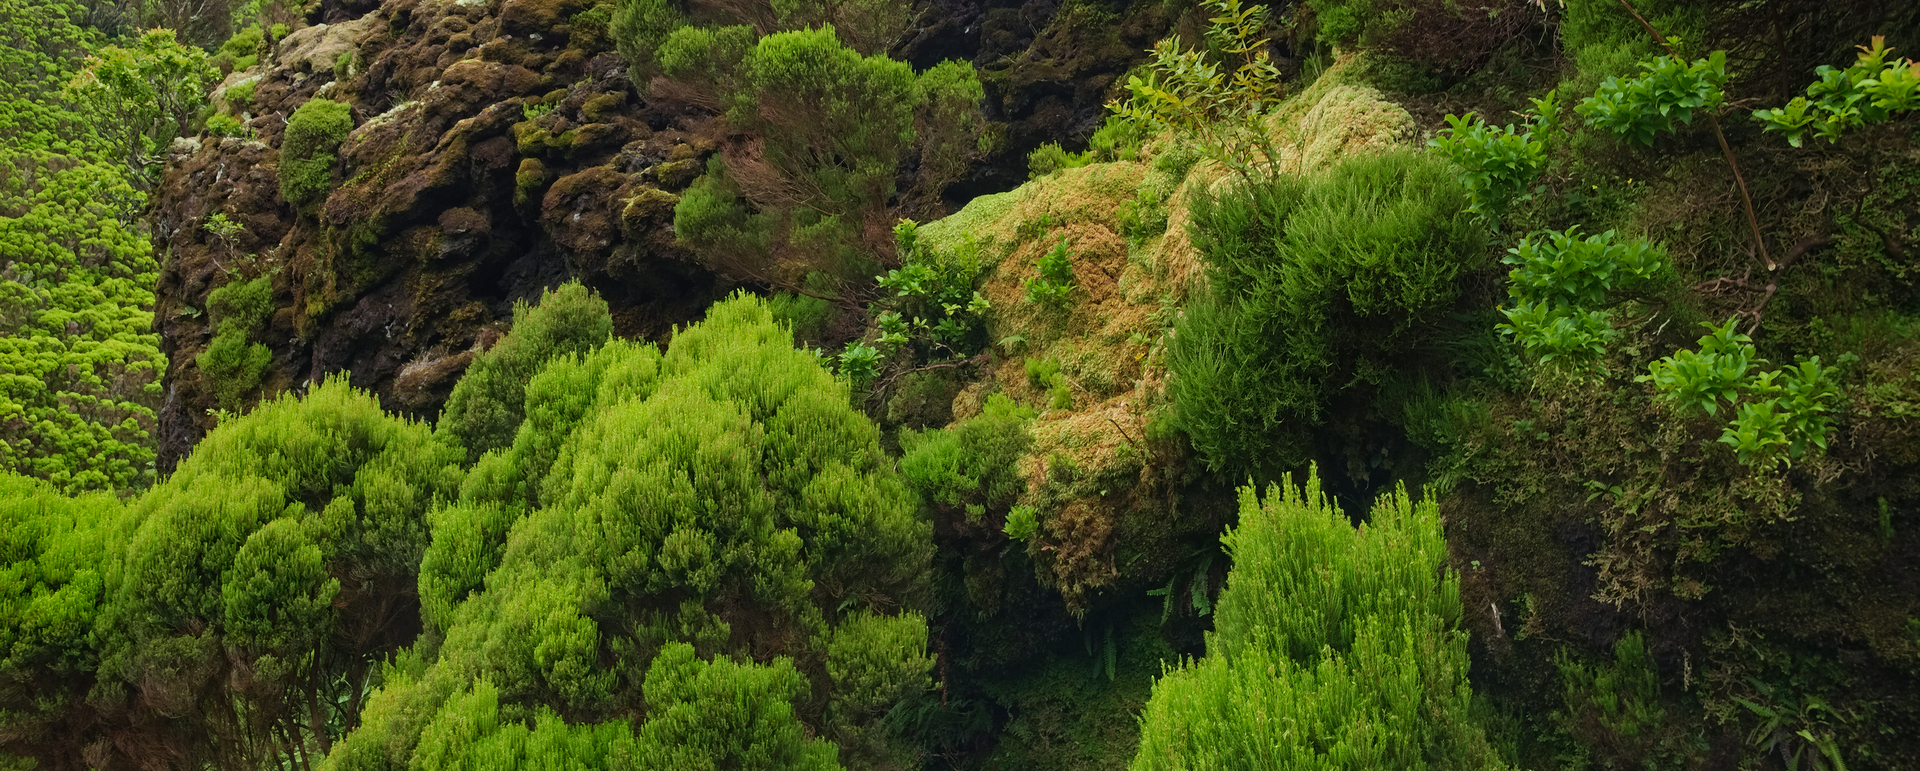
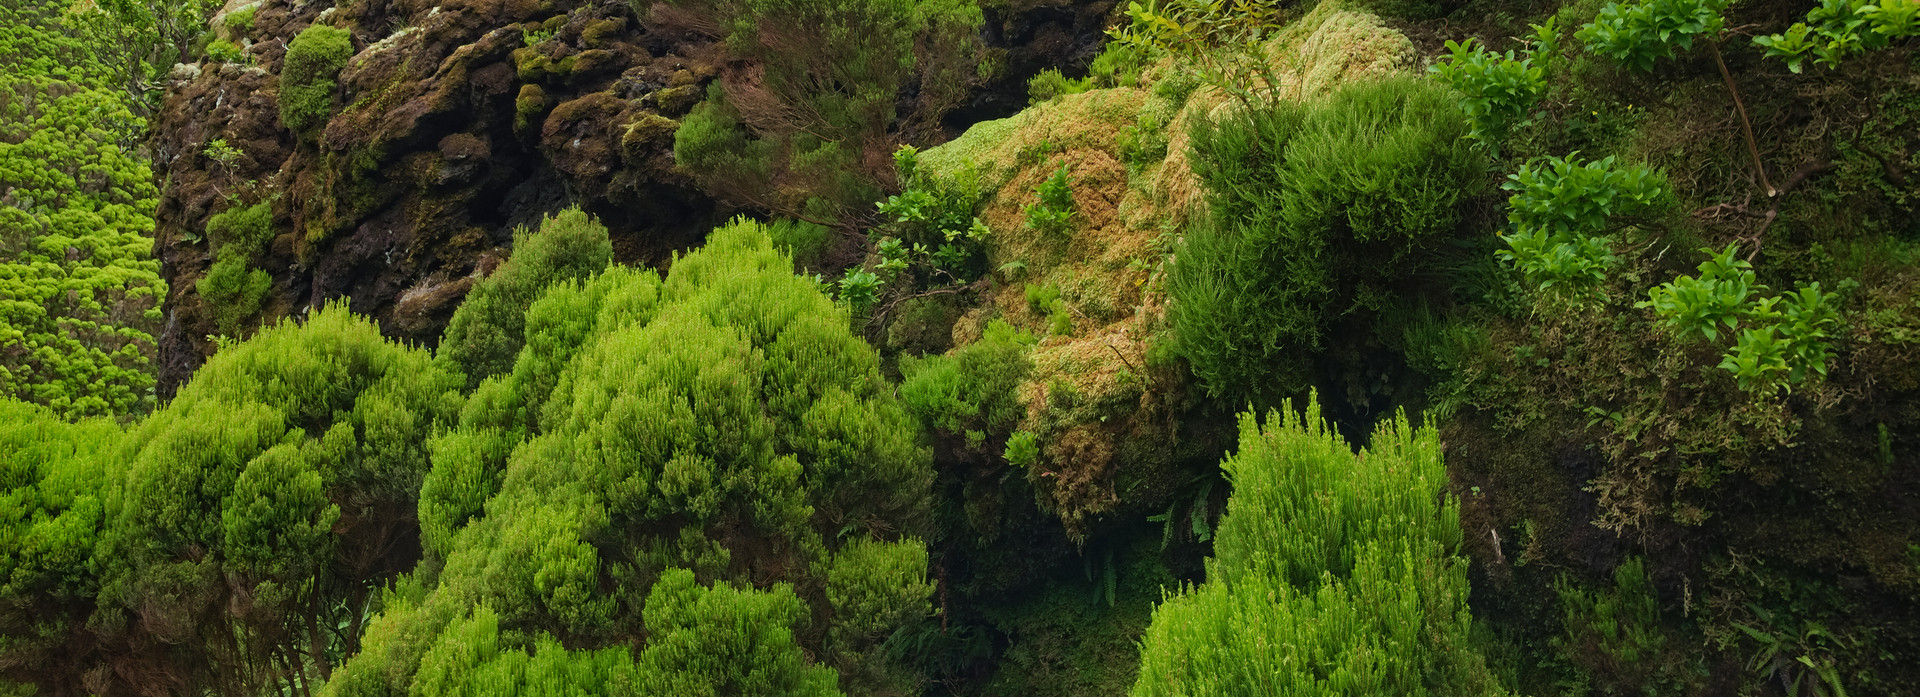
rebuilding site Do 2. Dez 23:00:59 CET 2021

diff --git a/css/hugo-theme-cleanwhite.css b/css/hugo-theme-cleanwhite.css
@@ -15,25 +15,25 @@
     }
 }
 .sidebar-container{
-    color:#aaa;
+    color:#777;
     font-size:18px
 }
 .sidebar-container h5{
-    color:gray;
+    color:#222;
     padding-bottom:1em
 }
 .sidebar-container h5 a{
-    color:gray!important;
+    color:#222 !important;
     text-decoration:none
 }
 .sidebar-container a{
-    color:#aaa!important
+    color:#777 !important
 }
 .sidebar-container a:hover,.sidebar-container a:active{
     color:#0085a1!important
 }
 .sidebar-container .tags a{
-    border-color:#aaa;
+    border-color:#777;
     background-color:#fff!important
 }
 .sidebar-container .tags a:hover,.sidebar-container .tags a:active{
@@ -70,7 +70,7 @@ h1,h2,h3,h4,h5,h6{
 }
 
 h1top{
-  color:green
+  color:black
 }
 h2,h3,h4,h5,h6{
     color:#222;
@@ -373,7 +373,7 @@ pre code{
 }
 
 .intro-header.centered-header{
-     background-position: center center; 
+     background-position: bottom center; 
 }
 
 .intro-header.style-text{	
@@ -499,7 +499,7 @@ pre code{
 }
 .post-preview>.post-meta>a, .post-preview>.post-meta{
     font-family:"Zen Kaku Gothic Antique","Helvetica Neue",Arial,sans-serif;
-    color:gray;
+    color:rgb(42,104,49);
     font-size:18px;
     font-style:italic;
     font-weight:500;
@@ -526,7 +526,7 @@ pre code{
 .post-content-preview{
     font-size:16px;
     font-style:italic;
-    color:#a3a3a3
+    color:#666
 }
 .post-content-preview:hover{
     color:#0085a1

diff --git a/about/index.html b/about/index.html
@@ -183,7 +183,7 @@
             
             <div class="col-lg-8 col-lg-offset-2 post-container">
                 <h1 style="color:black">About me</h1>
-<p>I’m a biodiversity data scientist and ecological modeler who seeks new challenges outside academia.</p>
+<p>I’m a biodiversity data scientist and ecological modeler who seeks new challenges outside academia. My interests</p>
 <h2 id="professional-experience">Professional experience</h2>
 <p><strong>Since 2021</strong><br>
 Freelance Data Scientist</p>
